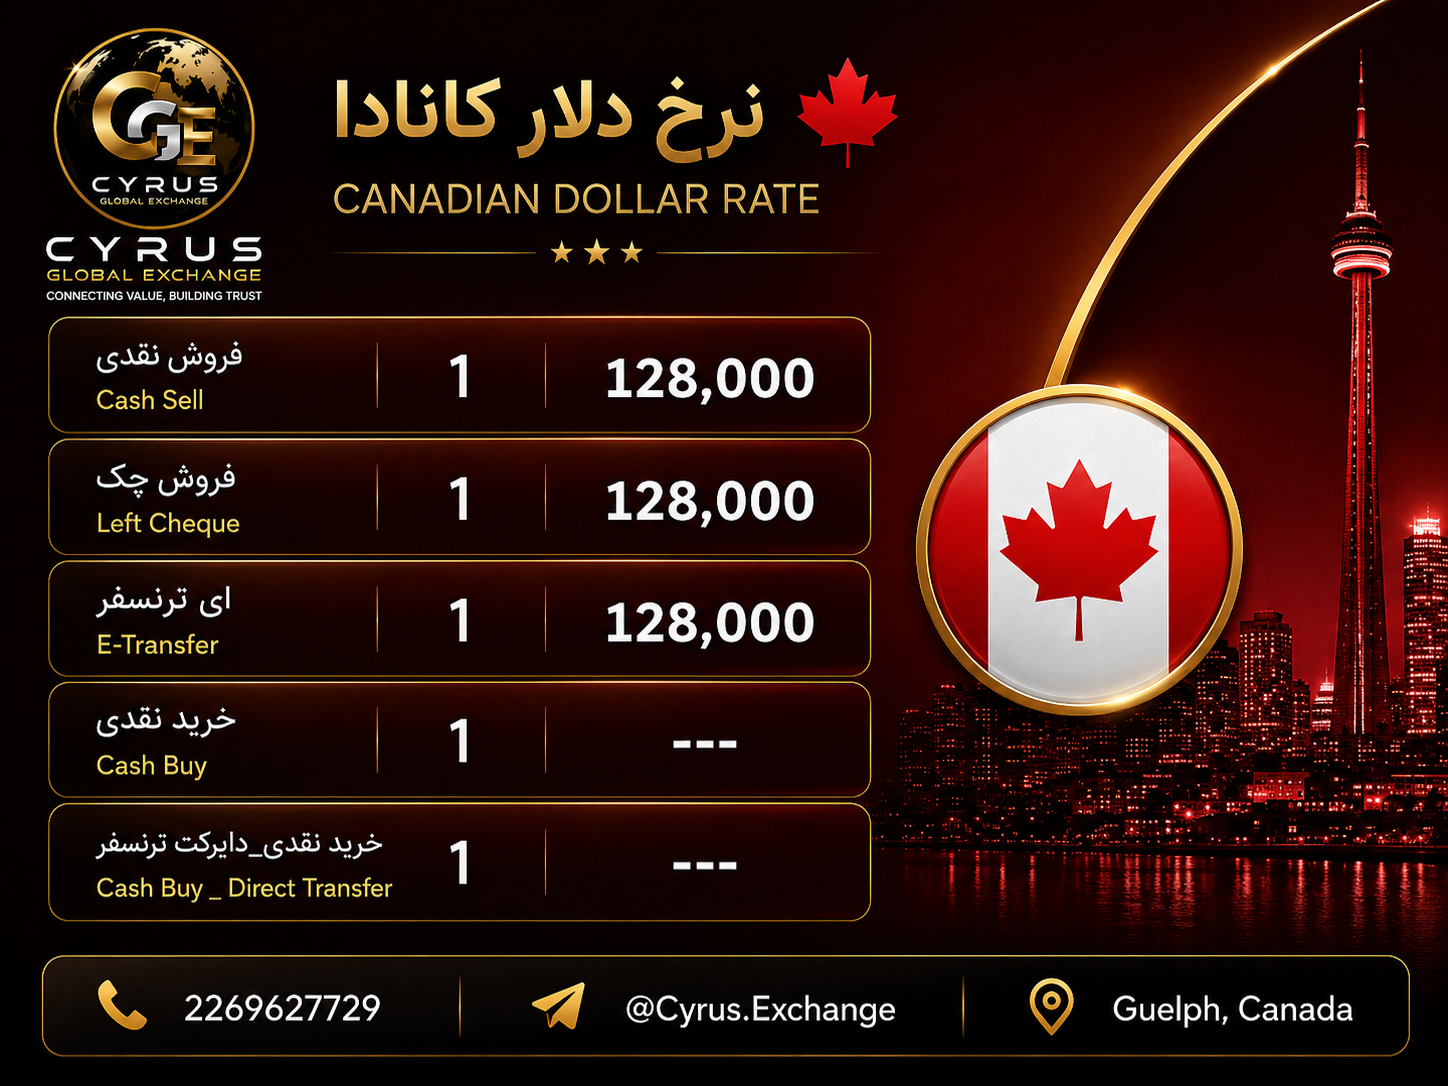
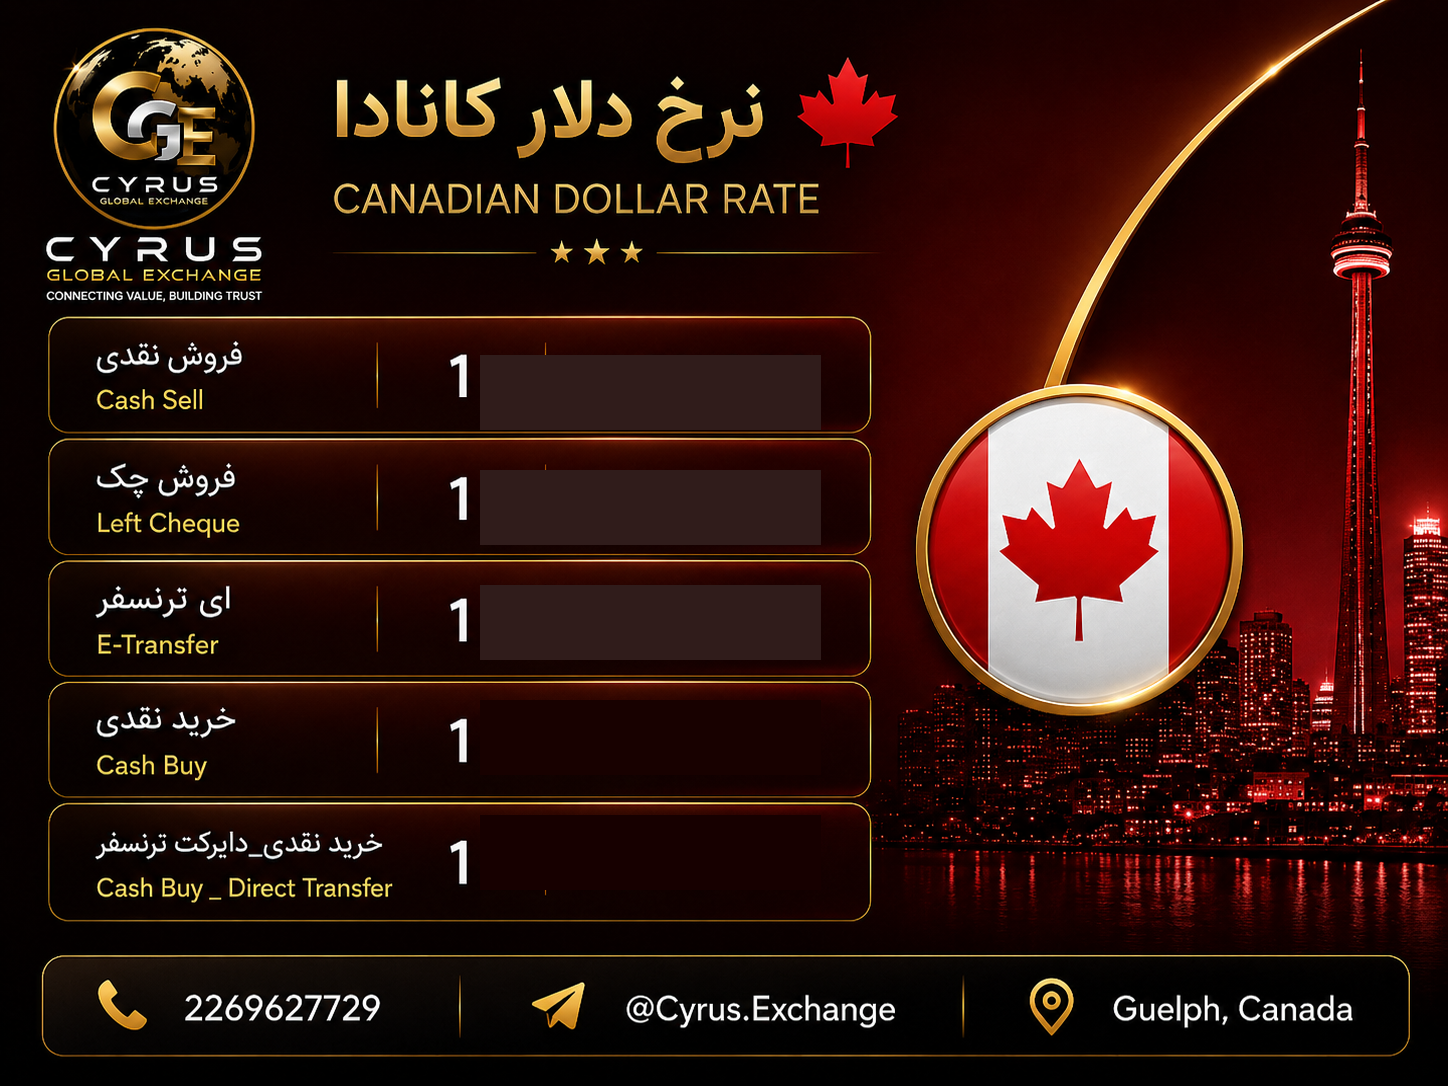
fix: clean price cell rendering with centered text and updated coordinates
- write_cell now uses template-restore (no rectangle fill) + anchor="mm" centering
- shadow opacity reduced to 120 for softer look
- --force-clean flag added for one-shot force post
- Updated price box coordinates for CAD, USD, EUR, USDT to better align with each template row

diff --git a/rate_graphic_publisher.py b/rate_graphic_publisher.py
@@ -133,38 +133,34 @@ def write_cell(
     color:    tuple = (255, 255, 255, 255),
     max_font: int = 60,
     min_font: int = 14,
-    erase_bg: bool = False,
+    bg_color: tuple | None = None,
 ) -> None:
     x1, y1, x2, y2 = (int(v) for v in box)
     bw, bh = x2 - x1, y2 - y1
+    cx, cy = x1 + bw // 2, y1 + bh // 2
 
-    # Restore clean master region (wipes any previous render)
-    working.paste(master.crop((x1, y1, x2, y2)), (x1, y1))
+    if bg_color:
+        ImageDraw.Draw(working).rectangle((x1, y1, x2, y2), fill=bg_color)
+    else:
+        # Restore clean master region (wipes any previous render)
+        working.paste(master.crop((x1, y1, x2, y2)), (x1, y1))
 
     if not text:
         return
 
     draw = ImageDraw.Draw(working)
-    if erase_bg:
-        # Sample master bg and flood-fill to erase baked-in placeholder digits
-        all_px = list(master.crop((x1, y1, x2, y2)).convert("RGB").getdata())
-        bg_px  = [p for p in all_px if sum(p) < 600] or all_px
-        bg     = tuple(sum(p[i] for p in bg_px) // len(bg_px) for i in range(3))
-        draw.rectangle([x1, y1, x2, y2], fill=(*bg, 255))
     fs   = min(max_font, max(min_font, int(bh * 0.60)))
     font = _font(fs)
-    bb   = draw.textbbox((0, 0), text, font=font)
-    tw, th = bb[2] - bb[0], bb[3] - bb[1]
+    bb   = draw.textbbox((cx, cy), text, font=font, anchor="mm")
+    tw   = bb[2] - bb[0]
     while tw > bw - 8 and fs > min_font:
         fs   -= 2
         font  = _font(fs)
-        bb    = draw.textbbox((0, 0), text, font=font)
-        tw, th = bb[2] - bb[0], bb[3] - bb[1]
+        bb    = draw.textbbox((cx, cy), text, font=font, anchor="mm")
+        tw    = bb[2] - bb[0]
 
-    draw.text(
-        (x1 + (bw - tw) // 2, y1 + (bh - th) // 2),
-        text, font=font, fill=color,
-    )
+    draw.text((cx + 2, cy + 2), text, font=font, fill=(0, 0, 0, 120), anchor="mm")
+    draw.text((cx, cy),         text, font=font, fill=color,           anchor="mm")
 
 
 # ─────────────────────────────────────────────────────────────────────────────
@@ -226,24 +222,24 @@ def generate_poster(currency: str, prices: dict) -> Path | None:
     working = master.copy()
 
     is_ratio = currency in ("USACAN", "EUR")
-    erase_bg = currency in ("CAD", "USD")
 
     def fmt(v: float | None) -> str:
         if v is None:
             return ""
         return f"{v:.2f}" if is_ratio else f"{int(v):,}"
 
-    WHITE = (255, 255, 255, 255)
+    WHITE    = (255, 255, 255, 255)
+    bg_color = None
 
     sell_boxes = coords.get("sell_boxes", [])
     sell_keys  = coords.get("sell_keys", ["sell"] * len(sell_boxes))
     for box, key in zip(sell_boxes, sell_keys):
-        write_cell(working, master, box, fmt(prices.get(key)), WHITE, erase_bg=erase_bg)
+        write_cell(working, master, box, fmt(prices.get(key)), WHITE, bg_color=bg_color)
 
     buy_boxes = coords.get("buy_boxes", [])
     buy_keys  = coords.get("buy_keys", ["buy"] * len(buy_boxes))
     for box, key in zip(buy_boxes, buy_keys):
-        write_cell(working, master, box, fmt(prices.get(key)), WHITE, erase_bg=erase_bg)
+        write_cell(working, master, box, fmt(prices.get(key)), WHITE, bg_color=bg_color)
 
     out = OUTPUT_FILES[currency]
     working.convert("RGB").save(str(out), "PNG")
@@ -532,4 +528,8 @@ async def run_publisher() -> None:
 
 
 if __name__ == "__main__":
-    asyncio.run(run_publisher())
+    import sys
+    if "--force-clean" in sys.argv:
+        asyncio.run(post_all(force=True))
+    else:
+        asyncio.run(run_publisher())
